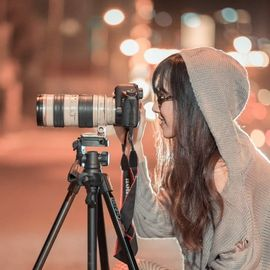
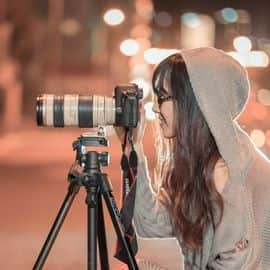
Image optimization + contrast corrections

diff --git a/index.html b/index.html
@@ -29,7 +29,7 @@
             <div class="container bloc-sm">
                 <nav class="navbar row">
                     <div class="navbar-header"><a class="navbar-brand" href="index.html"><img
-                                src="img/la-chouette-agence.png" alt="Logo de la chouette agence"
+                                src="img/la-chouette-agence.jpg" alt="Logo de la chouette agence"
                                 height="40"></a><button id="nav-toggle" type="button"
                             class="ui-navbar-toggle navbar-toggle" data-toggle="collapse" data-target=".navbar-1"><span
                                 class="sr-only">Toggle navigation</span><span class="icon-bar"></span><span
@@ -48,7 +48,7 @@
             id="bloc-1-hero">
             <div class="container bloc-lg">
                 <div class="row tight-width-whitespace">
-                    <div class="col-sm-12"><img src="img/logo.png" class="center-block image-resize-mode" width="100"
+                    <div class="col-sm-12"><img src="img/logo.jpg" class="center-block image-resize-mode logo-simple" width="100"
                             alt="Logo simple de la chouette agence">
                         <h1 class="text-center hero-bloc-text tc-white">La chouette agence</h1>
                         <div class="text-center"><a href="page2.html"
@@ -169,10 +169,10 @@
             </div>
         </section><!-- bloc-4-portfolio END -->
         <!-- bloc-5-cta -->
-        <section class="bloc bgc-dark-slate-blue bg-banniere d-bloc bloc-bg-texture texture-paper" id="bloc-5-cta">
+        <section class="bloc bgc-dark-slate-blue bg-banniere bloc bg-t-edge bloc-bg-texture texture-paper b-parallax" id="bloc-5-cta">
             <div class="container bloc-lg">
-                <div class="row">
-                    <h2 class="mg-md text-center tc-white">Prêt à vous dévelloper grâce au web ?<br>Contactez notre
+                <div class="row col-sm-12">
+                    <h2 class="text-center hero-bloc-text tc-white">Prêt à vous dévelloper grâce au web ?<br>Contactez notre
                         équipe !</h2>
                     <div class="col-sm-12 text-center"><a href="page2.html"
                             class="btn btn-atomic-tangerine btn-clean btn-rd btn-lg cta-hero">Contact</a></div>
@@ -184,7 +184,7 @@
             <footer class="container bloc-sm">
                 <div class="row">
                     <div class="col-sm-12">
-                        <p class="text-center white">La chouette agence - Agence web basée à Lyon.<br></p>
+                        <p class="text-center">La chouette agence - Agence web basée à Lyon.<br></p>
                         <div class="row row-no-gutters social">
                             <div class="col-sm-3">
                                 <div class="text-center"><a class="social" href="index.html"><span

diff --git a/page2.html b/page2.html
@@ -12,11 +12,12 @@
     <link rel="stylesheet" type="text/css" href="style.css">
     <link rel="stylesheet" type="text/css" href="./css/font-awesome.css">
     <link rel="stylesheet" type="text/css" href="./css/et-line.css">
-    <script src="./js/jquery-2.1.0.js"></script>
-    <script src="./js/bootstrap.js"></script>
-    <script src="./js/blocs.js"></script>
-    <script src="./js/jquery.touchSwipe.js" defer></script>
-    <script src="./js/gmaps.js"></script>
+    <script async src="./js/jquery-2.1.0.js" cache-control:public max-age=31536000></script>
+    <script async src="./js/bootstrap.js"></script>
+    <script async src="./js/blocs.js"></script>
+    <script async src="./js/jquery.touchSwipe.js" defer></script>
+	<script async src="./js/gmaps.js"></script>
+	<cache-control></cache-control>
     <title>Contactez-nous: la chouette agence, webdesign à Lyon</title><!-- Analytics -->
     <!-- Analytics END -->
 </head>
@@ -29,7 +30,7 @@
             <div class="container bloc-sm">
                 <nav class="navbar row">
                     <div class="navbar-header"><a class="navbar-brand" href="index.html"><img
-                                src="img/la-chouette-agence.png" alt="atlanta web design logo" height="40"></a><button
+                                src="img/la-chouette-agence.jpg" alt="atlanta web design logo" height="40"></a><button
                             id="nav-toggle" type="button" class="ui-navbar-toggle navbar-toggle" data-toggle="collapse"
                             data-target=".navbar-1"><span class="sr-only">Toggle navigation</span><span
                                 class="icon-bar"></span><span class="icon-bar"></span><span
@@ -96,7 +97,7 @@
             <div class="container bloc-sm">
                 <div class="row">
                     <div class="col-sm-12">
-                        <p class="text-center white">La chouette agence - Agence web basée à Lyon.<br></p>
+                        <p class="text-center ">La chouette agence - Agence web basée à Lyon.<br></p>
                         <div class="row row-no-gutters social">
                             <div class="col-sm-3">
                                 <div class="text-center"><a class="social" href="index.html"><span

diff --git a/style.css b/style.css
@@ -91,7 +91,7 @@ a:hover {
 }
 
 .texture-paper::before {
-    background: url("img/texture-paper.png");
+    background: url("img/texture-paper.jpg");
     background-size: 280px 280px;
     opacity: 0.5;
 }
@@ -747,7 +747,7 @@ h5{
 }
 h6{
     font-size: 20px;
-    padding-top: 40px;
+    padding-top: 10px;
     color: #000000 !important;
 }
 
@@ -802,6 +802,7 @@ h6{
 
 .tc-white {
     color: #FFFFFF!important;
+    z-index: 10;
 }
 .tc-grey {
     color: #303030!important;
@@ -842,6 +843,9 @@ h6{
 
 .bg-presentation {
     background-image: url("img/image-de-presentation.jpg");
+}
+.logo-simple{
+    border-radius: 125px;
 }
 
 @media (max-width: 1024px) {
